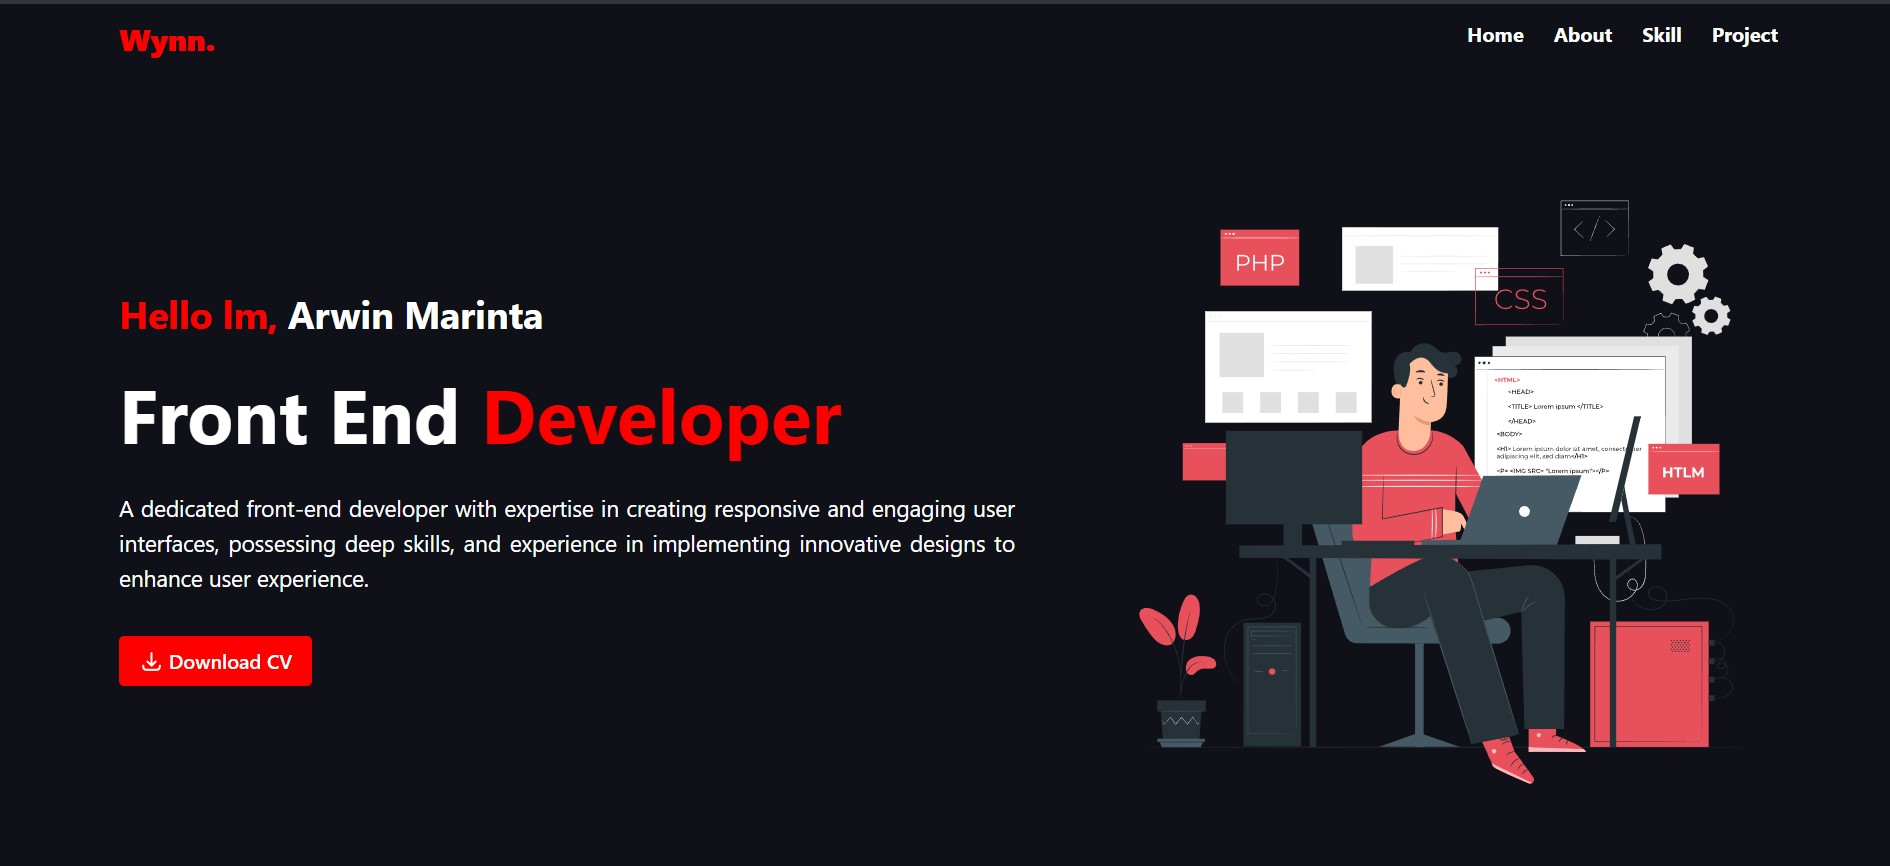
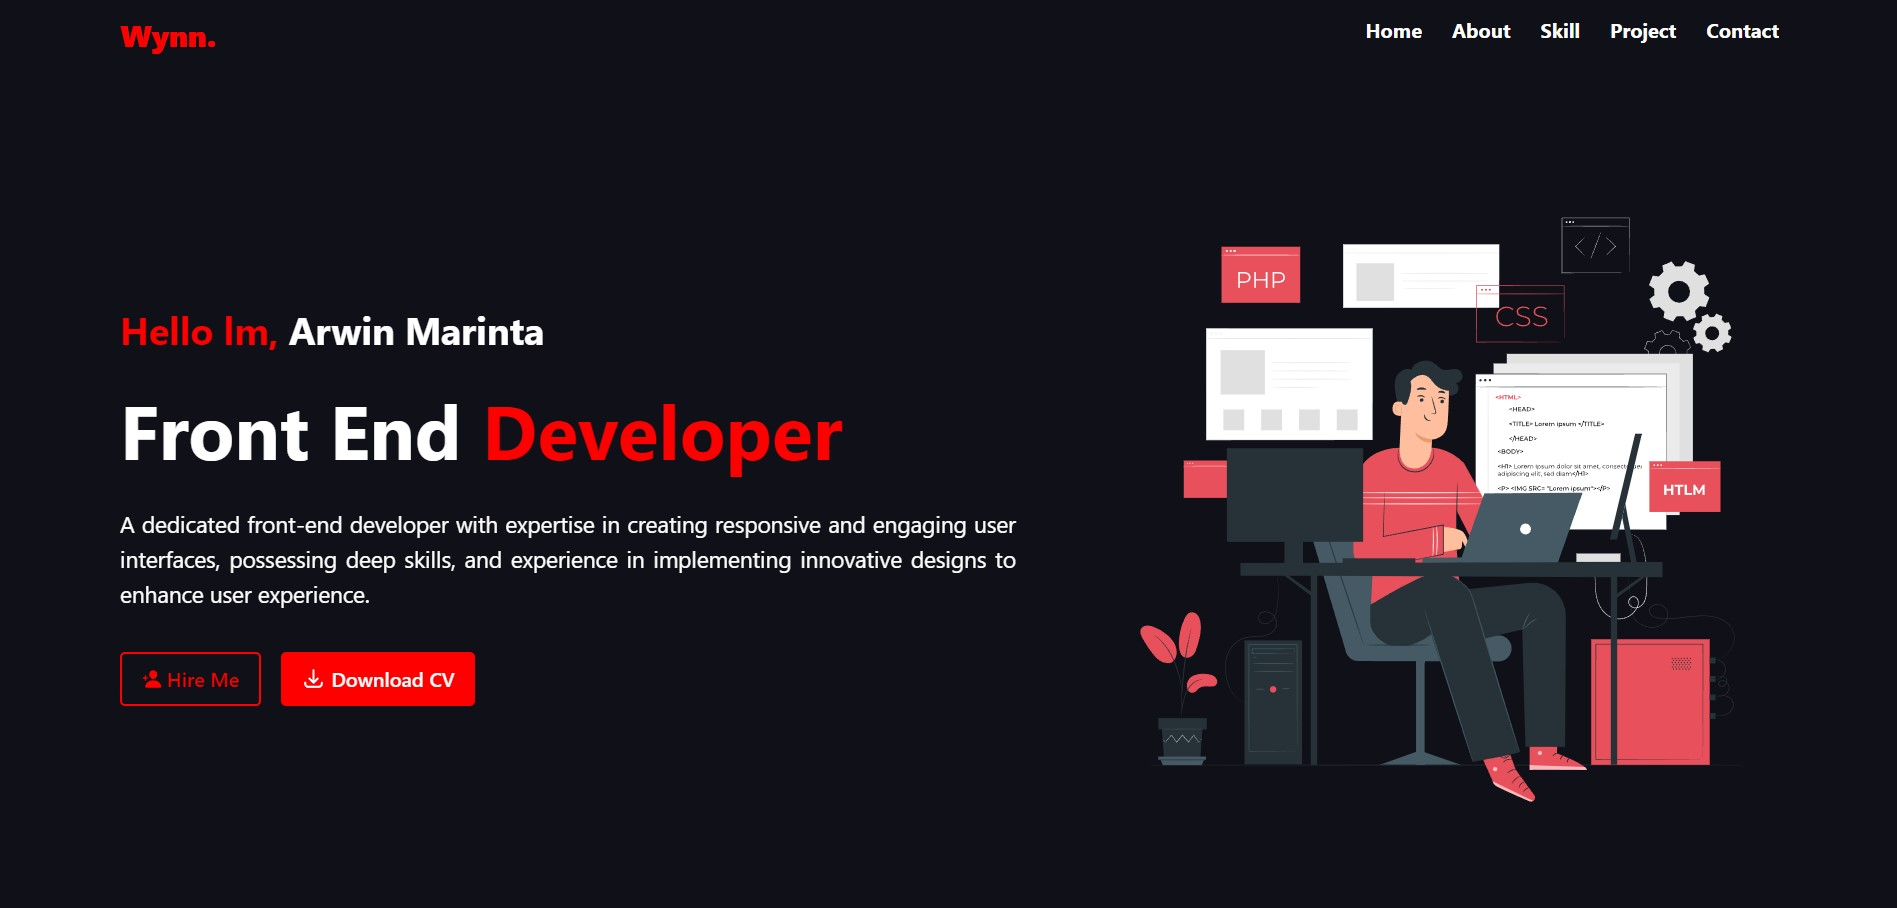
<improve> [home & about] remove social media and add button

diff --git a/src/components/About.jsx b/src/components/About.jsx
@@ -54,51 +54,6 @@ const About = () => {
               GIT as tools. In addition, I am also skilled in developing responsive
               applications, well accessible on various types of devices.
             </p>
-            <div
-              // data-aos="fade-up"
-              className="flex flex-col justify-center items-center"
-            >
-              <p className="mt-4 text-white font-bold border-b-4 border-RED01 max-w-fit text-lg ">
-                Social Media
-              </p>
-              <div className="mt-6 flex flex-row gap-4">
-                <Link
-                  href="https://www.instagram.com/wynnn_1/"
-                  target="_blank"
-                  className="bg-white p-2 rounded-full hover:bg-[#E4405F]"
-                >
-                  <FaInstagram />
-                </Link>
-                <Link
-                  href="https://www.linkedin.com/in/arwin-marinta/"
-                  target="_blank"
-                  className="bg-white p-2 rounded-full hover:bg-[#0077B5] "
-                >
-                  <FaLinkedinIn />
-                </Link>
-                <Link
-                  href="https://github.com/ArwinMarinta"
-                  target="_blank"
-                  className="bg-white p-2 rounded-full hover:bg-[#181717]  hover:text-white"
-                >
-                  <FaGithub />
-                </Link>
-                <Link
-                  href="https://open.spotify.com/user/31hjabaul3l36cbsftund7fhr6gq?si=iIYsvCvrRrG4o3werXF2XQ&nd=1&dlsi=f7e4445f67674860"
-                  target="_blank"
-                  className="bg-white p-2 rounded-full hover:bg-[#1DB954]"
-                >
-                  <FaSpotify />
-                </Link>
-                <Link
-                  href="https://link-tree.arwinmarinta.com"
-                  target="_blank"
-                  className="bg-white p-2 rounded-full hover:bg-[#FF69B4]"
-                >
-                  <SiLinktree />
-                </Link>
-              </div>
-            </div>
           </div>
         </div>
       </div>

diff --git a/src/components/Contact.jsx b/src/components/Contact.jsx
@@ -134,12 +134,15 @@ const Contact = () => {
                 Arwin Marinta
               </label>
             </Link>
-            <div className="flex flex-row gap-4 py-2">
+            <Link
+              href="https://www.instagram.com/wynnn_1/"
+              className="flex flex-row gap-4 py-2"
+            >
               <Image src={Instagram} alt="Instagram" width={30} height={30} />
               <label className="text-white font-bold text-lg  hover:underline">
                 @wynnn_1
               </label>
-            </div>
+            </Link>
             <Link
               href="https://link-tree.arwinmarinta.com"
               className="flex flex-row gap-4 py-2"
@@ -194,7 +197,7 @@ const Contact = () => {
                 className="bg-RED01 text-white font-semibold sm:px-16 w-full  py-2 rounded-md right-2 fok "
               >
                 {loading ? (
-                  <a className="flex flex-row items-center gap-2">
+                  <a className="flex flex-row items-center gap-2 justify-center">
                     <IoIosSend />
                     {"send..."}
                   </a>

diff --git a/src/components/Home.jsx b/src/components/Home.jsx
@@ -25,10 +25,13 @@ const Home = () => {
             implementing innovative designs to enhance user experience.
           </p>
           <div className="flex flex-row gap-4 ">
-            {/* <button className="py-2 px-4 flex flex-row items-center rounded-[4px] border-2 border-RED01 text-RED01 font-semibold gap-1">
+            <Link
+              href="#Contact"
+              className="py-2 px-4 flex flex-row items-center rounded-[4px] border-2 border-RED01 text-RED01 font-semibold gap-1"
+            >
               <IoPersonAdd />
               <span>Hire Me</span>
-            </button> */}
+            </Link>
             <Link
               href={`${URL_PORTO}`}
               target="_blank"

diff --git a/src/components/card/Card_Porject.jsx b/src/components/card/Card_Porject.jsx
@@ -9,7 +9,11 @@ const Card = ({ data }) => {
   return (
     <div className=" flex flex-col bg-DARK03 hover:bg-[#2e3142] py-4 rounded-lg w-full cursor-pointer">
       <div className="px-4  flex flex-col gap-4 h-full">
-        <Image src={data?.image} alt="Picture Project" className="w-full rounded-md" />
+        <Image
+          src={data?.image}
+          alt={data?.tittle}
+          className="w-full h-full rounded-md"
+        />
         <span className="text-YELLOW01 font-bold flex text-center justify-center">
           {data?.tittle}
         </span>

diff --git a/src/components/Education.jsx b/src/components/Education.jsx
@@ -2,8 +2,8 @@ import React from "react";
 
 const Education = () => {
   return (
-    <main className="w-full flex justify-center bg-DARK pt-10">
-      <div className="container flex justify-center items-center flex-col">
+    <main className="w-full flex justify-center bg-DARK ">
+      <div className="container flex justify-center items-center flex-col py-10">
         <div data-aos="fade-down" className="text-RED01 font-bold text-5xl">
           Education
         </div>

diff --git a/tailwind.config.js b/tailwind.config.js
@@ -4,6 +4,7 @@ module.exports = {
     "./src/pages/**/*.{js,ts,jsx,tsx,mdx}",
     "./src/components/**/*.{js,ts,jsx,tsx,mdx}",
     "./src/app/**/*.{js,ts,jsx,tsx,mdx}",
+    "./node_modules/flowbite-react/lib/**/*.js",
   ],
   theme: {
     extend: {
@@ -33,5 +34,5 @@ module.exports = {
       },
     },
   },
-  plugins: [],
+  plugins: [require("flowbite/plugin")],
 };
